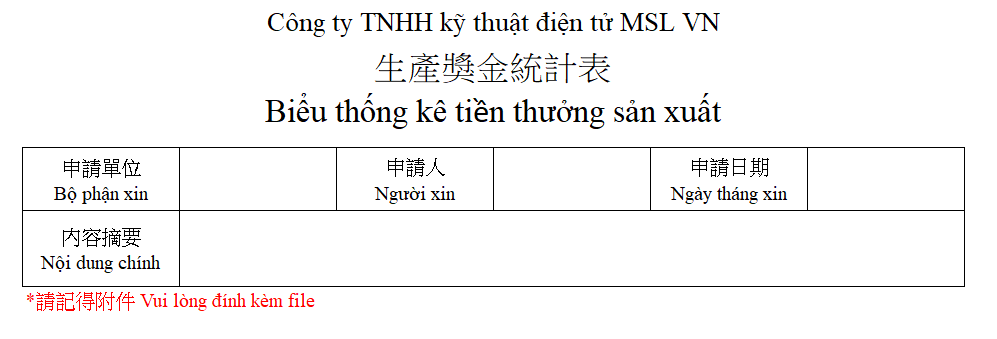
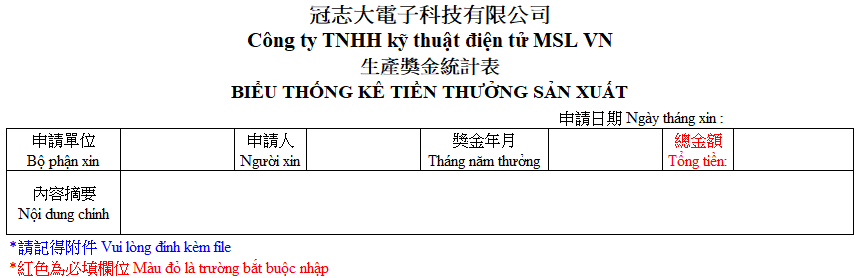
檔案上傳

Changed region(s): [[0.0, 0.4029, 0.9977, 1.0], [0.2494, 0.0, 0.7483, 0.3741], [0.0, 0.6619, 0.1871, 0.8058]]

diff --git a/ODMAWDMVE01/ODMAWDMVE01.aspx.cs b/ODMAWDMVE01/ODMAWDMVE01.aspx.cs
@@ -116,14 +116,15 @@ namespace tw.com.dsc.easyflowDotNet.forms
 			this.txtmain.Title = MultiLanguage.GetComment("FD", "ODMAWDMVE01", "txtmain", tLanguageType);
 			this.txtuser.Title = MultiLanguage.GetComment("FD", "ODMAWDMVE01", "txtuser", tLanguageType);
 			this.totalmoney.Title = MultiLanguage.GetComment("FD", "ODMAWDMVE01", "totalmoney", tLanguageType);
+            this.yearmonth.Title = MultiLanguage.GetComment("FD", "ODMAWDMVE01", "yearmonth", tLanguageType);
 
 
-			#region 自訂排序
-			
-			#endregion 自訂排序
+            #region 自訂排序
 
-			#region 限制修改欄位
-			this.TxtCreateToolSubject.InputEnabled=false;
+            #endregion 自訂排序
+
+            #region 限制修改欄位
+            this.TxtCreateToolSubject.InputEnabled=false;
 
 			#endregion 限制修改欄位
 
@@ -1130,10 +1131,12 @@ where resfc001=@resfc001 and resfc002=@resfc002 and resfc003=@resfc003 and ISNUL
 			defalutHash.Add("date", DateTime.Now.ToString("yyyyMMdd"));
 			defalutHash.Add("txtdept", ajaxGetDepartmentName());
 			defalutHash.Add("txtuser", this.UserInfo.LoginName.ToString());
-		}
+            defalutHash.Add("yearmonth", DateTime.Now.AddMonths(-1).ToString("yyyyMM"));
 
-		//草稿儲存後要將主旨清除
-		protected override void AfterCreateToolSaveForm()
+        }
+
+        //草稿儲存後要將主旨清除
+        protected override void AfterCreateToolSaveForm()
 		{
 			base.TxtCreateToolSubject.Text = String.Empty;
 		}
